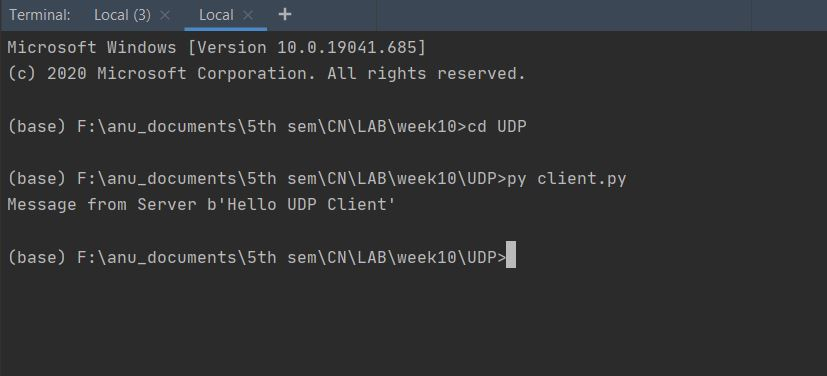
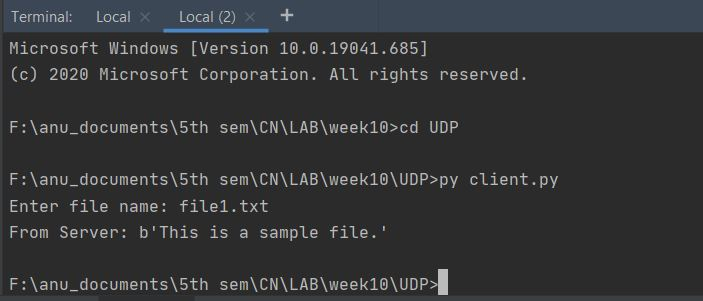
update TCP/UDP client/server(file added)

diff --git a/week10/UDP/server.py b/week10/UDP/server.py
@@ -1,14 +1,7 @@
 import socket
 
-localIP = "127.0.0.1"
-
-localPort = 20001
-
-bufferSize = 1024
-
-msgFromServer = "Hello UDP Client"
-
-bytesToSend = str.encode(msgFromServer)
+serverName = '127.0.0.1'
+serverPort = 12345
 
 # Create a datagram socket
 
@@ -16,25 +9,18 @@ UDPServerSocket = socket.socket(socket.AF_INET, socket.SOCK_DGRAM)
 
 # Bind to address and ip
 
-UDPServerSocket.bind((localIP, localPort))
+UDPServerSocket.bind((serverName, serverPort))
 
 print("UDP server up and listening")
 
 # Listen for incoming datagrams
 
 while (True):
-    bytesAddressPair = UDPServerSocket.recvfrom(bufferSize)
+    sentence, clientAddress = UDPServerSocket.recvfrom(2048)
 
-    message = bytesAddressPair[0]
+    file = open(sentence, "r")
+    l = file.read(2048)
 
-    address = bytesAddressPair[1]
-
-    clientMsg = "Message from Client:{}".format(message)
-    clientIP = "Client IP Address:{}".format(address)
-
-    print(clientMsg)
-    print(clientIP)
-
-    # Sending a reply to client
-
-    UDPServerSocket.sendto(bytesToSend, address)
+    UDPServerSocket.sendto(bytes(l, "utf-8"), clientAddress)
+    print("sent back to client: ", l)
+file.close()

diff --git a/week10/UDP/client.py b/week10/UDP/client.py
@@ -1,12 +1,7 @@
 import socket
 
-msgFromClient = "Hello UDP Server"
-
-bytesToSend = str.encode(msgFromClient)
-
-serverAddressPort = ("127.0.0.1", 20001)
-
-bufferSize = 1024
+serverName = '127.0.0.1'
+serverPort = 12345
 
 # Create a UDP socket at client side
 
@@ -14,10 +9,9 @@ UDPClientSocket = socket.socket(socket.AF_INET, socket.SOCK_DGRAM)
 
 # Send to server using created UDP socket
 
-UDPClientSocket.sendto(bytesToSend, serverAddressPort)
+sentence = input("Enter file name: ")
+UDPClientSocket.sendto(bytes(sentence,"utf-8"),(serverName, serverPort))
+filecontents,serverAddress = UDPClientSocket.recvfrom(2048)
+print ('From Server:', filecontents)
 
-msgFromServer = UDPClientSocket.recvfrom(bufferSize)
-
-msg = "Message from Server {}".format(msgFromServer[0])
-
-print(msg)
+UDPClientSocket.close()

diff --git a/week10/TCP/client.py b/week10/TCP/client.py
@@ -5,18 +5,9 @@ serverPort = 12345
 
 client_socket = socket.socket(socket.AF_INET,socket.SOCK_STREAM)
 client_socket.connect((serverName,serverPort))
-payload='Hey server'
+sentence = input("Enter file name: ")
 
-try:
-    while True:
-        client_socket.send(payload.encode('utf-8'))
-        data = client_socket.recv(1024)
-        print(str(data))
-        more = input('Want to send more data to the server?\n')
-        if more.lower() == 'y':
-            payload = input("Enter payload\n")
-        else:
-            break
-except KeyboardInterrupt:
-    print("Exited by user")
+client_socket.send(sentence.encode())
+filecontents = client_socket.recv(1024).decode()
+print ('From Server:', filecontents)
 client_socket.close()

diff --git a/week10/TCP/server.py b/week10/TCP/server.py
@@ -15,13 +15,11 @@ while True:
     print("Server waiting for connection")
     client_socket, addr = server_socket.accept()
     print("Client connected from",addr)
-    while True:
-        data = client_socket.recv(1024)
-        if not data or data.decode('utf-8')=='END':
-            break
-        print("Received from client client: %s"%data.decode("utf-8"))
-        try:
-            client_socket.send(bytes('Hey client', 'utf-8'))
-        except:
-            print("Exited by the user")
+    sentence = client_socket.recv(1024).decode()
+
+    file = open(sentence, "r")
+    l = file.read(1024)
+
+    client_socket.send(l.encode())
+    file.close()
     client_socket.close()
